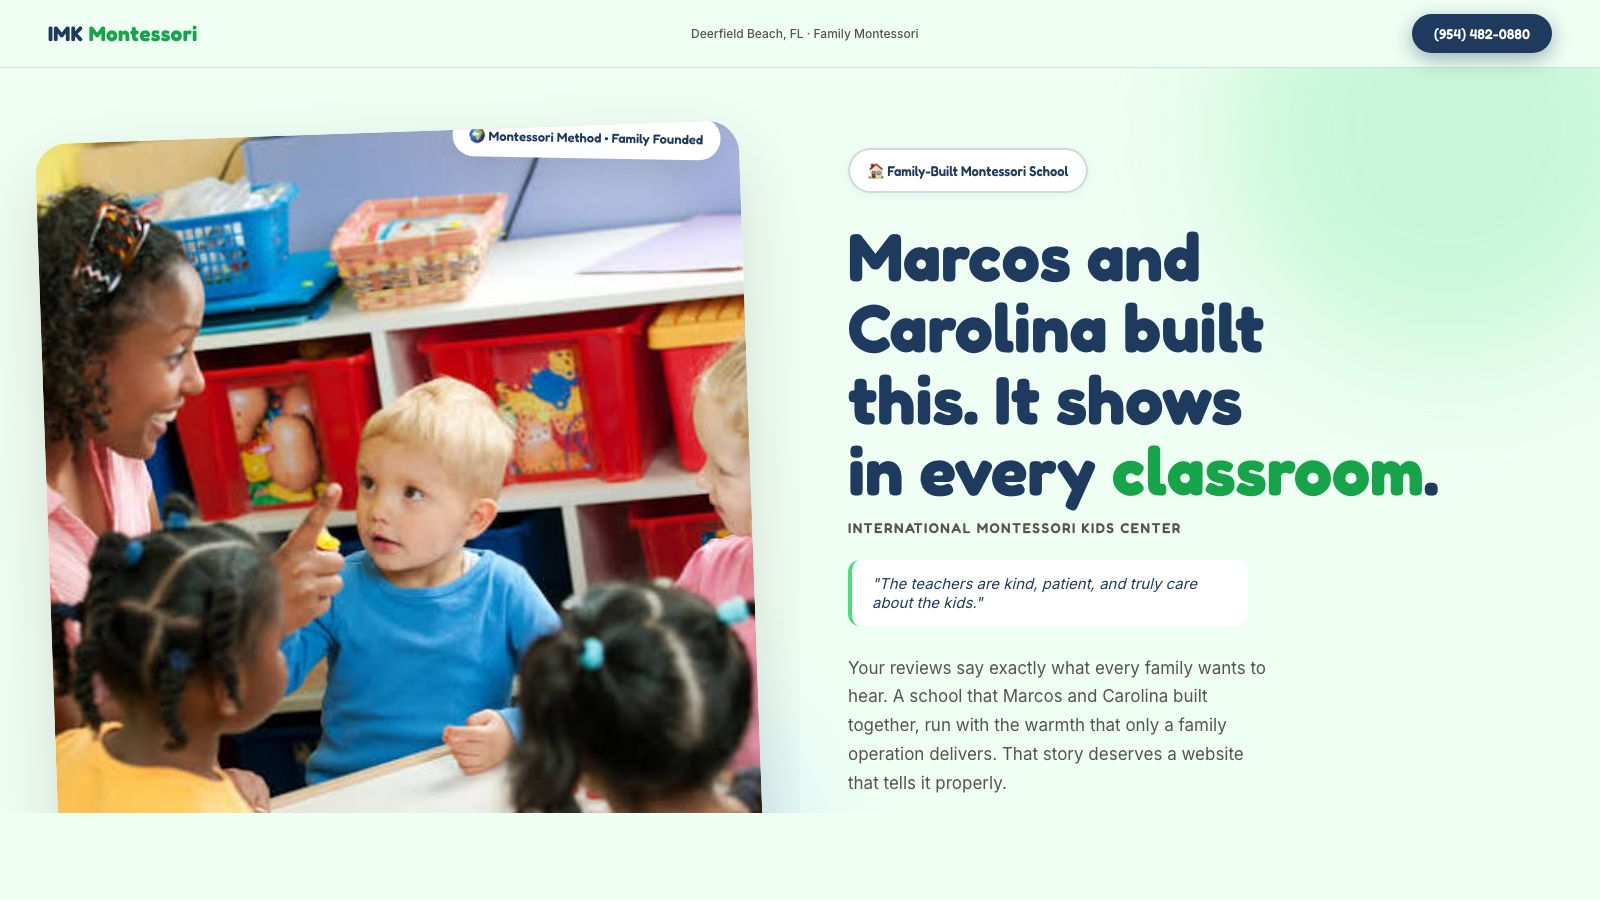
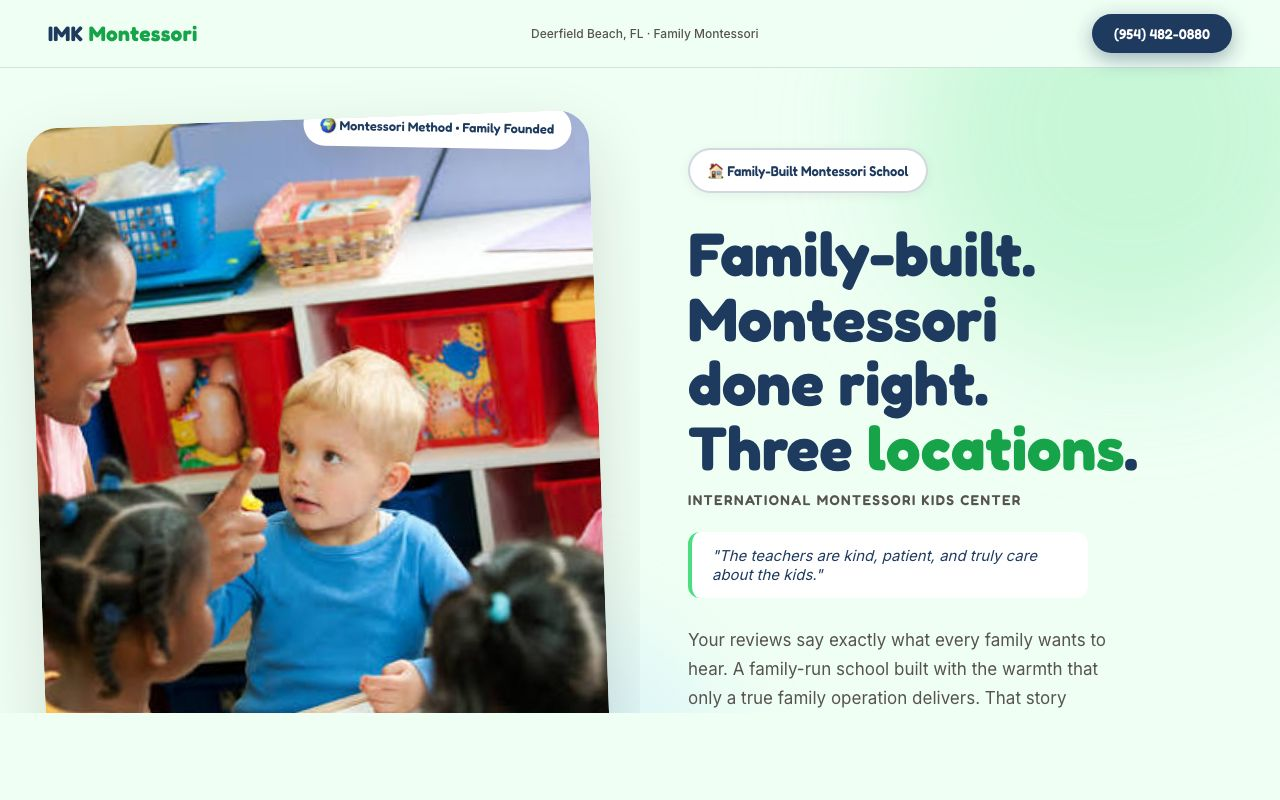
Remove founder names from IMK Montessori hero, retake screenshot

diff --git a/p/imk-montessori-kids/index.html b/p/imk-montessori-kids/index.html
@@ -173,10 +173,10 @@ nav{
   </div>
   <div class="hero-text">
     <div class="hero-pill">&#127968; Family-Built Montessori School</div>
-    <h1 class="hero-h1">Marcos and<br>Carolina built<br>this. It shows<br>in every <span class="accent">classroom</span>.</h1>
+    <h1 class="hero-h1">Family-built.<br>Montessori<br>done right.<br>Three <span class="accent">locations</span>.</h1>
     <p class="hero-year">International Montessori Kids Center</p>
     <div class="hero-quote">"The teachers are kind, patient, and truly care about the kids."</div>
-    <p class="hero-sub">Your reviews say exactly what every family wants to hear. A school that Marcos and Carolina built together, run with the warmth that only a family operation delivers. That story deserves a website that tells it properly.</p>
+    <p class="hero-sub">Your reviews say exactly what every family wants to hear. A family-run school built with the warmth that only a true family operation delivers. That story deserves a website that tells it properly.</p>
     <div class="hero-btns">
       <a class="btn-primary" href="tel:9544820880">Call (954) 482-0880</a>
       <a class="btn-ghost" href="#proof">Credentials &rarr;</a>
